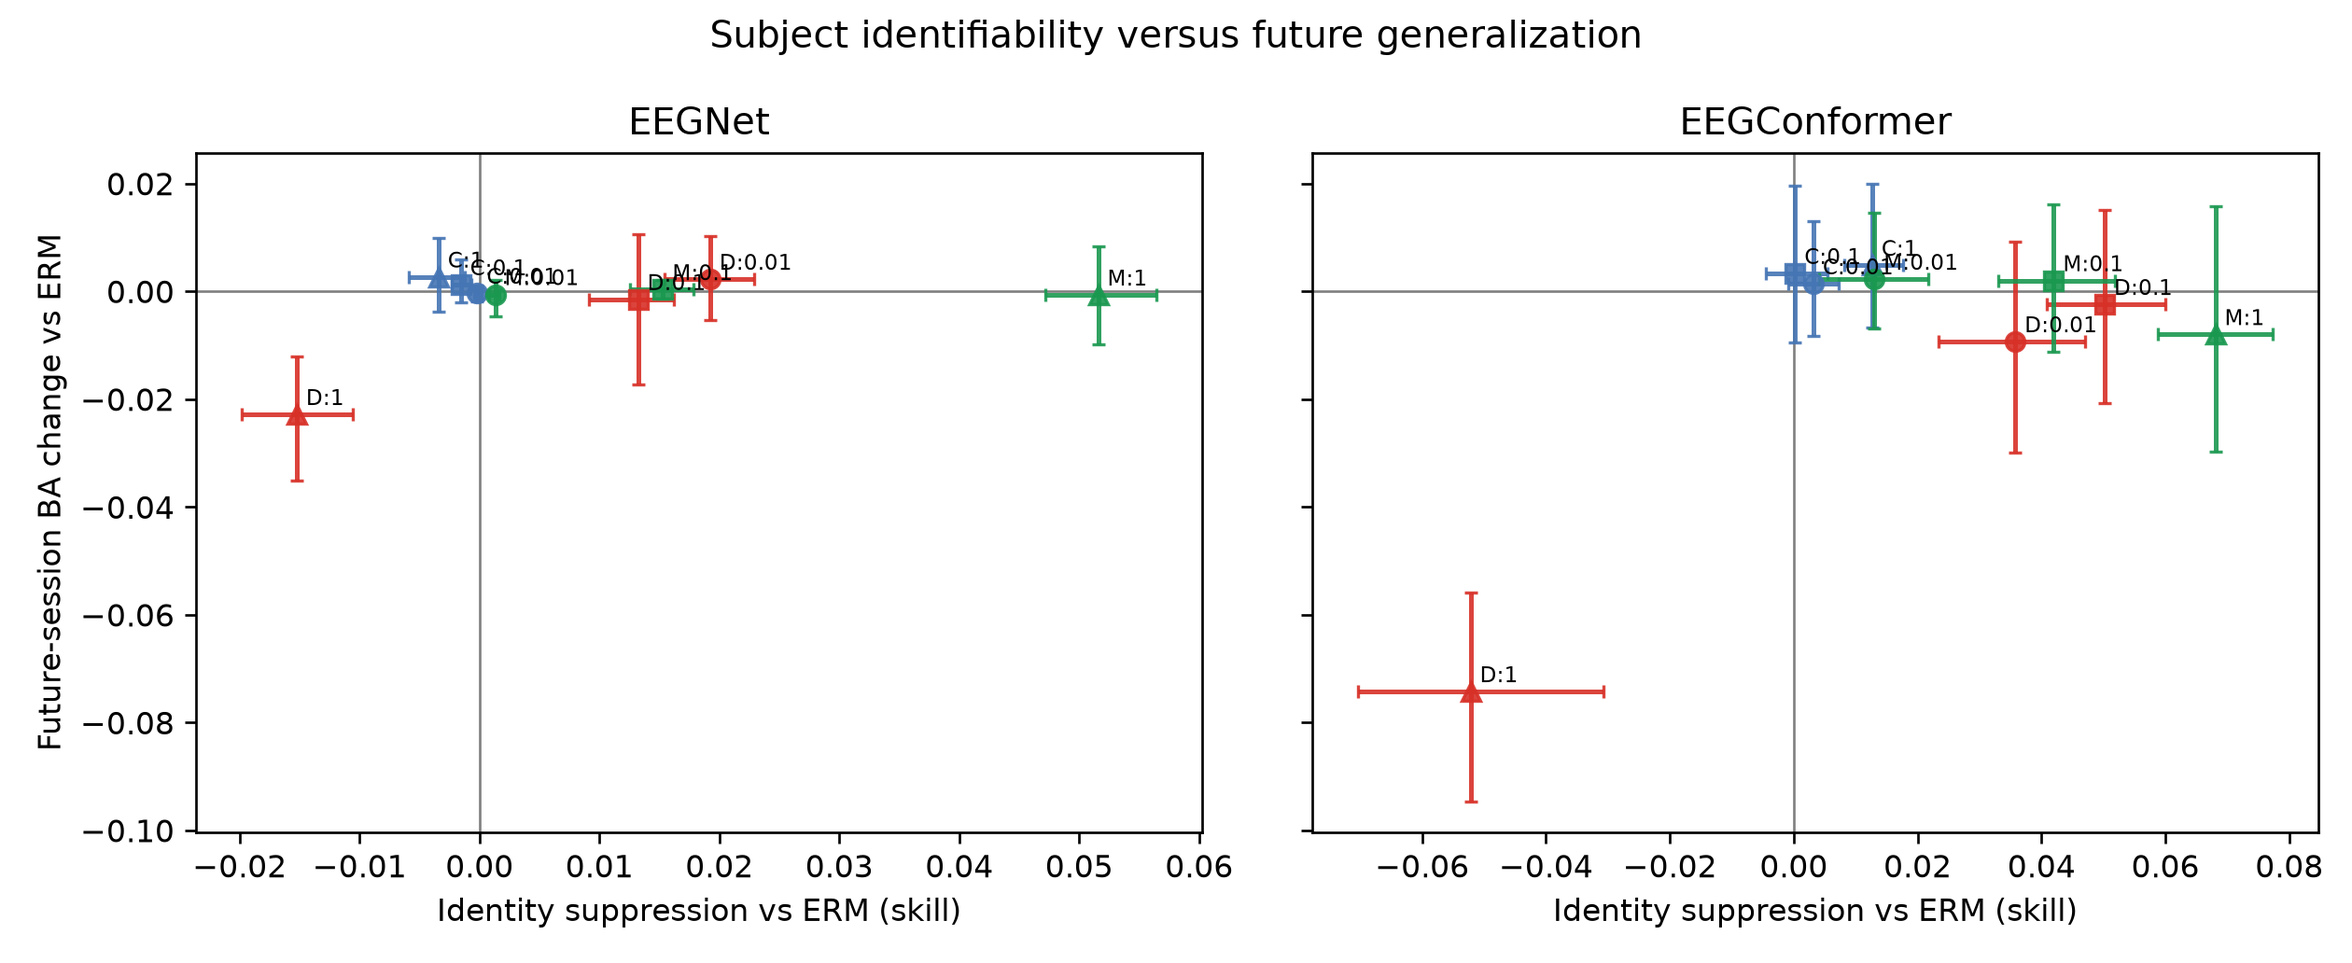
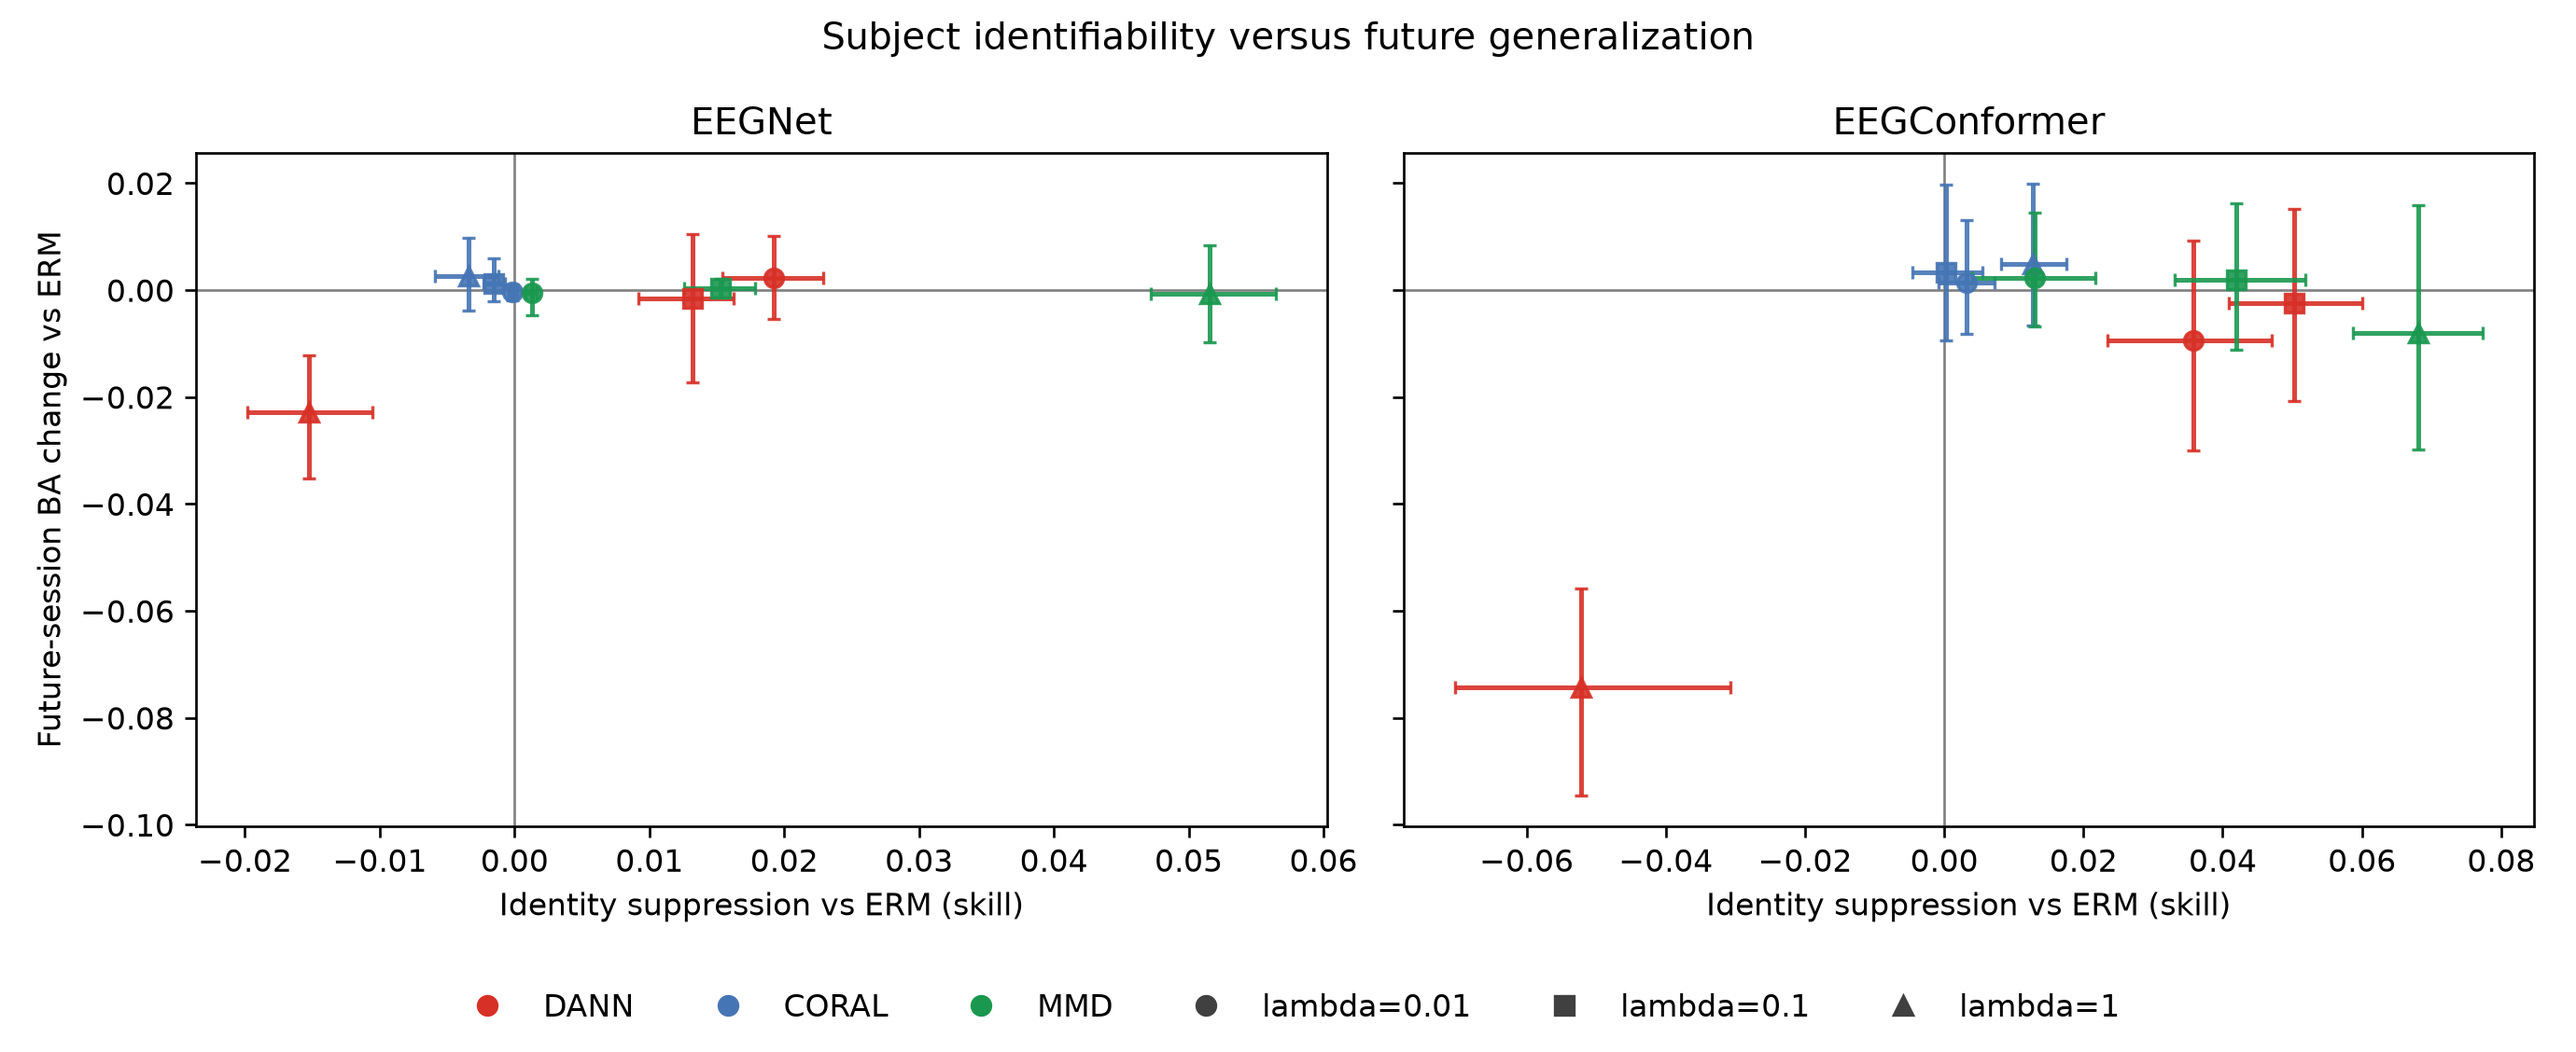
Improve stress test figure readability

diff --git a/experiments/persist_eeg_subject_invariance_stress_test_v1/code/aggregate.py b/experiments/persist_eeg_subject_invariance_stress_test_v1/code/aggregate.py
@@ -13,6 +13,7 @@ matplotlib.use("Agg")
 import matplotlib.pyplot as plt
 import numpy as np
 import pandas as pd
+from matplotlib.lines import Line2D
 from scipy import stats
 
 import common
@@ -369,7 +370,7 @@ def make_figures(
     common.FIGURES.mkdir(parents=True, exist_ok=True)
     colors = {"DANN": "#d73027", "CORAL": "#4575b4", "MMD": "#1a9850"}
     markers = {0.01: "o", 0.1: "s", 1.0: "^"}
-    fig, axes = plt.subplots(1, 2, figsize=(10.5, 4.3), sharey=True)
+    fig, axes = plt.subplots(1, 2, figsize=(11.5, 4.7), sharey=True)
     for ax, backbone in zip(axes, common.BACKBONES):
         part = config[config.backbone == backbone]
         ax.axhline(0, color="0.5", lw=0.8)
@@ -385,12 +386,20 @@ def make_figures(
                 capsize=2,
                 alpha=0.9,
             )
-            ax.annotate(f"{row['method'][0]}:{float(row['lambda']):g}", (row["identity_suppression"], row["BA_delta"]), xytext=(3, 3), textcoords="offset points", fontsize=7)
         ax.set_title("EEGNet" if backbone == "eegnet" else "EEGConformer")
         ax.set_xlabel("Identity suppression vs ERM (skill)")
     axes[0].set_ylabel("Future-session BA change vs ERM")
+    method_handles = [
+        Line2D([0], [0], marker="o", linestyle="none", color=colors[method], label=method, markersize=6)
+        for method in ("DANN", "CORAL", "MMD")
+    ]
+    lambda_handles = [
+        Line2D([0], [0], marker=markers[lam], linestyle="none", color="0.25", label=f"lambda={lam:g}", markersize=6)
+        for lam in (0.01, 0.1, 1.0)
+    ]
+    fig.legend(handles=method_handles + lambda_handles, loc="lower center", ncol=6, frameon=False, bbox_to_anchor=(0.5, 0.0))
     fig.suptitle("Subject identifiability versus future generalization")
-    fig.tight_layout()
+    fig.tight_layout(rect=(0, 0.09, 1, 1))
     fig.savefig(common.FIGURES / "identity_vs_generalization.png", dpi=240)
     fig.savefig(common.FIGURES / "identity_vs_generalization.pdf")
     plt.close(fig)
